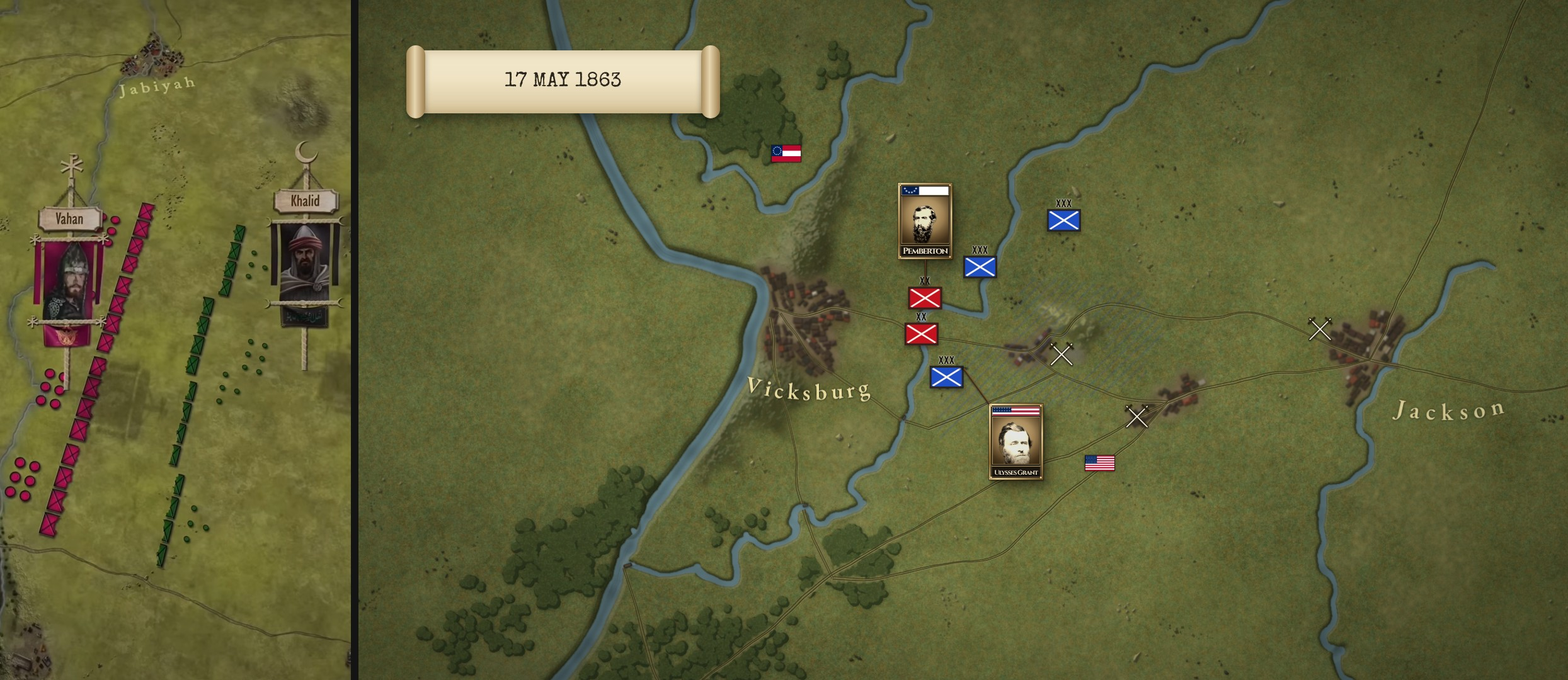
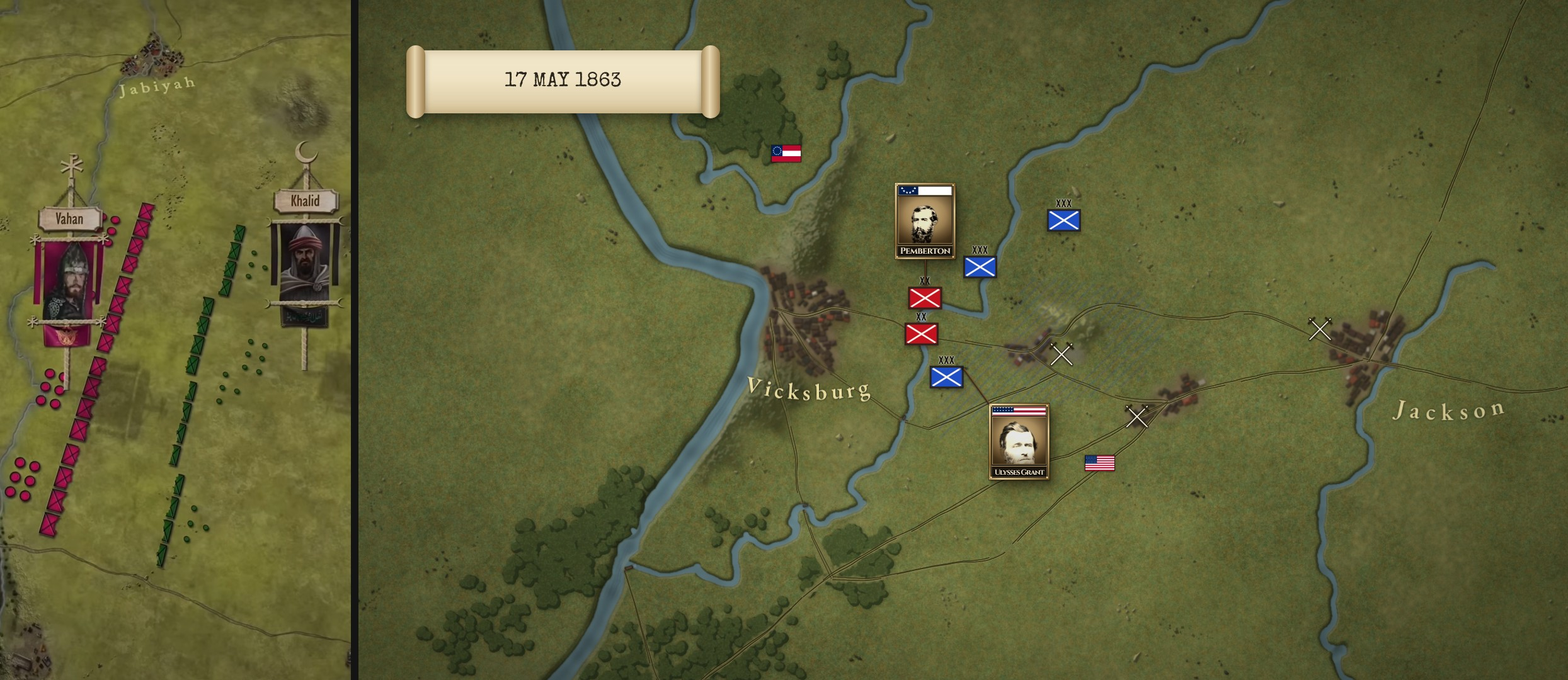
Polish: hand-pressed ruts, stronger main roads, wider Mississippi, Grant plate, Big Black timing
Claude-Session: https://claude.ai/code/session_011uJnj9PFzMNram5mgUPnoT

diff --git a/research/style_tests/roads_towns/make_body.py b/research/style_tests/roads_towns/make_body.py
@@ -26,18 +26,33 @@ if os.path.exists(CXJ):   # crossings.py: same meandered roads, ferry roads carr
     D = [" ".join("M" + " L".join(f"{x:.1f} {y:.1f}" for x, y in c) for c in r["paths"]) for r in json.load(open(CXJ))["roads"]]
     # owner 2026-11-10: embossed double cart ruts (ref_road_zoom2.png): two ruts ~3.4 px apart at 1080p (s 1.9 -> +-0.9 map px), wobbling, merging now and then
     def ruts(c, seed):
-        rnd = random.Random(seed); ph = [rnd.uniform(0, 6.28) for _ in range(4)]
-        L_, R_, acc = [], [], 0.0
+        """hand-pressed cart ruts (critic polish): each rut has its own slow wobble, spacing varies +-30 %%, an occasional pinch
+        where the ruts merge, and short fades (gaps) in each rut; never machine-parallel."""
+        rnd = random.Random(seed); ph = [rnd.uniform(0, 6.28) for _ in range(9)]
+        acc, pts = 0.0, []
         for i, (x, y) in enumerate(c):
             if i: acc += math.hypot(x - c[i - 1][0], y - c[i - 1][1])
             a, b = c[max(0, i - 2)], c[min(len(c) - 1, i + 2)]
-            Ln = math.hypot(b[0] - a[0], b[1] - a[1]) + 1e-9; nx, ny = -(b[1] - a[1]) / Ln, (b[0] - a[0]) / Ln
-            half = 0.9 * (0.82 + 0.3 * math.sin(acc / 37 + ph[0]) + 0.12 * math.sin(acc / 11 + ph[1]))
-            half = max(0.25, half)
-            wob = 0.18 * math.sin(acc / 15 + ph[2])
-            L_.append((x + nx * (half + wob), y + ny * (half + wob))); R_.append((x - nx * (half - wob), y - ny * (half - wob)))
+            Ln = math.hypot(b[0] - a[0], b[1] - a[1]) + 1e-9
+            pts.append((x, y, -(b[1] - a[1]) / Ln, (b[0] - a[0]) / Ln, acc))
         f = lambda P: "M" + " L".join(f"{x:.2f} {y:.2f}" for x, y in P)
-        return f(L_) + " " + f(R_)
+        out = []
+        for side, k0 in ((1, 0), (-1, 3)):
+            segs, cur = [], []
+            for (x, y, nx, ny, s_) in pts:
+                sp = 1 + 0.3 * math.sin(s_ / 41 + ph[6]) * math.sin(s_ / 13 + ph[7])          # spacing +-30 %%
+                pinch = 0.25 + 0.75 * min(1, max(0, (math.sin(s_ / 63 + ph[8]) + 0.92) / 0.3))   # occasional merge
+                own = 0.22 * math.sin(s_ / (19 + 6 * k0) + ph[k0]) + 0.1 * math.sin(s_ / (7 + k0) + ph[k0 + 1])   # this rut's own wobble
+                o = side * 0.9 * sp * pinch + own
+                fade = math.sin(s_ / (17 + 4 * k0) + ph[k0 + 2]) > 0.93                         # short fades
+                if fade:
+                    if len(cur) > 1: segs.append(cur)
+                    cur = []
+                else:
+                    cur.append((x + nx * o, y + ny * o))
+            if len(cur) > 1: segs.append(cur)
+            out += [f(sg) for sg in segs]
+        return " ".join(out)
     DR = [" ".join(ruts(c, 100 * k + j) for j, c in enumerate(r["paths"])) for k, r in enumerate(json.load(open(CXJ))["roads"])]
 else:
     DR = D
@@ -71,8 +86,8 @@ CURV.push([{ setAttribute: () => rtHillSync() }, 1]); rtHillSync();
 { const sv = document.createElementNS("http://www.w3.org/2000/svg", "svg"); sv.setAttribute("viewBox", "0 0 2880 1620"); sv.setAttribute("width", "2880"); sv.setAttribute("height", "1620");
   sv.style.cssText = "position:absolute;left:0;top:0;overflow:visible";
   // embossed cart track (lit from the NW): dusty band, then each rut = dark groove edge (shifted NW) + light rim (shifted SE) + olive floor
-  const lay = [[RTD, "#a99c6a", 5.5, 0.12, 0, 0], [RTD, "#4a4522", 3.4, 0.14, 0, 0],
-               [RTDR, "#2a2810", 1.2, 0.72, -0.4, -0.4], [RTDR, "#d6cc98", 0.8, 0.26, 0.65, 0.65], [RTDR, "#4e4824", 0.85, 0.6, 0, 0]], PS = [], SH = [];
+  const lay = [[RTD, "#a99c6a", 5.5, 0.15, 0, 0], [RTD, "#4a4522", 3.4, 0.17, 0, 0],
+               [RTDR, "#24220c", 1.25, 0.86, -0.4, -0.4], [RTDR, "#ddd3a0", 0.85, 0.31, 0.65, 0.65], [RTDR, "#46401e", 0.9, 0.7, 0, 0]], PS = [], SH = [];
   lay.forEach(([DD, c, w, a, dx, dy]) => { const g = document.createElementNS("http://www.w3.org/2000/svg", "g"); if (dx || dy) SH.push([g, dx, dy]);
     DD.forEach((d) => { const p = document.createElementNS("http://www.w3.org/2000/svg", "path"); p.setAttribute("d", d);
     p.setAttribute("fill", "none"); p.setAttribute("stroke", c); p.setAttribute("stroke-opacity", a); p.setAttribute("stroke-linecap", "round"); p.setAttribute("stroke-linejoin", "round");
@@ -120,7 +135,7 @@ rep('B.move("u13", T_17, 1.2, ...L(32.39, -90.66));', 'B.move("u13", T_17, 1.2, 
 rep('hatch("assets/media/gn_vick_may16cap_mx.png", T_CH + 0.5, 1.6);', 'hatch("assets/media/gn_vick_may16cap_mx.png", T_CH + 0.5, 0.2);   /* s12d_rt: form 1 ~2 s, mostly faded by the test frame */')
 rep('BAT("CHAMPION HILL", CH, T_CH, T_17 + 0.6, 0, -50);', 'BAT("CHAMPION HILL", CH, T_CH, T_17 + 0.6, 0, -50, [1627, 719]);   /* s12d_rt polish: south foot of Champion Hill (~40 px below the lit crest), between the Jackson and Raymond roads */')
 rep('smoke(LL([[32.335, -90.552], [32.33, -90.565], [32.29, -90.56]]), T_CH);', 'smoke([[1627, 719], [1620, 722], [1633, 724]], T_CH);   /* s12d_rt: powder smoke at the battle mark below the hill (it sat on the hill crest and read as a dark hole) */')
-rep('BAT("BIG BLACK", BBR, T_BB, T_EVERY + 0.4, -40, 85, L(32.33, -90.722));', 'BAT("BIG BLACK", BBR, T_BB, T_EVERY + 0.4, -40, 85, [1534, 708]);   /* s12d_rt polish: mark on the Big Black bridge approach, east bank (the Confederate unit stands on the bridge until it falls back) */\n{ const ok = document.getElementById("rt_bb_ok"), bx = document.getElementById("rt_bb_burned"); gsap.set(bx, { autoAlpha: 0 });   /* s12d_rt: the Confederates burn the Big Black bridge */\n  tl.to(bx, { autoAlpha: 1, duration: 0.6 }, T_BB + 0.2); tl.to(ok, { autoAlpha: 0, duration: 0.6 }, T_BB + 0.2); }')
+rep('BAT("BIG BLACK", BBR, T_BB, T_EVERY + 0.4, -40, 85, L(32.33, -90.722));', 'BAT("BIG BLACK", BBR, T_BB, T_EVERY + 0.4, -40, 85, [1534, 708]);   /* s12d_rt polish: mark on the Big Black bridge approach, east bank (the Confederate unit stands on the bridge until it falls back) */\n{ const ok = document.getElementById("rt_bb_ok"), bx = document.getElementById("rt_bb_burned"); gsap.set(bx, { autoAlpha: 0 });   /* s12d_rt: the Confederates burn the Big Black bridge */\n  tl.to(bx, { autoAlpha: 1, duration: 0.6 }, T_BB + 1.5); tl.to(ok, { autoAlpha: 0, duration: 0.6 }, T_BB + 1.5); }')
 rep('{ const ph = GW.firstElementChild.querySelectorAll("img")[1]; tl.set(ph, { attr: { src: PHOTO("grant") } }, T_UG - 0.1); }   // the photo revealed ON "Ulysses Grant"\n', '')
 rep('{ const nm = GW.firstElementChild.lastElementChild, n2 = document.createElement("div"); n2.textContent = "Ulysses Grant"; n2.style.cssText = nm.style.cssText + ";position:absolute;left:0;right:0;bottom:0;font-size:13px";\n  GW.firstElementChild.appendChild(n2); gsap.set(n2, { autoAlpha: 0 }); tl.to(nm, { autoAlpha: 0, duration: 0.15 }, T_UG - 0.1); tl.to(n2, { autoAlpha: 1, duration: 0.15 }, T_UG - 0.1);\n  nm.style.visibility = "inherit"; }', 'PC.reveal(GW, PHOTO("grant"), "Ulysses Grant", T_UG - 0.1);   /* s12d_rt: portrait card v2 reveal (research/style_tests/roads_towns/portraits) */')
 src = src.replace("// SCRIPT-12 TEST, scene s12d", "// SCRIPT-12 TEST, scene s12d_rt = COPY of s12d + roads + painted towns (make_body.py in the roads_towns test); original s12d", 1)

diff --git a/research/style_tests/roads_towns/make_kit.py b/research/style_tests/roads_towns/make_kit.py
@@ -8,6 +8,7 @@ pc = open("/home/user/battle-maps/research/style_tests/roads_towns/portraits/por
 for a, b in [("Math.max(8.5, Math.min(11.5, room / Math.max(em, 1)))", "Math.max(10.4, Math.min(14, 1.22 * room / Math.max(em * 1.06, 1)))"),
              ('.02em"}`; };', '-.01em"}`; };'), ("(0.02 * f - Math.min(0.9, over / n))", "(-0.01 * f - Math.min(1.1, over / n))"),
              ("height:17px;line-height:16px", "height:19px;line-height:18px"),
+             ("const IW = 80,", "const IW = 90,"),   # polish: card (and nameplate) ~12 % wider so "Ulysses Grant" reaches the PEMBERTON size
              ("filter:grayscale(1) sepia(.62) contrast(1.12) brightness(.96) saturate(1.05)", "filter:grayscale(1) sepia(.55) contrast(1.32) brightness(.9) saturate(1.05)")]:
     assert pc.count(a) == 1, a
     pc = pc.replace(a, b)
